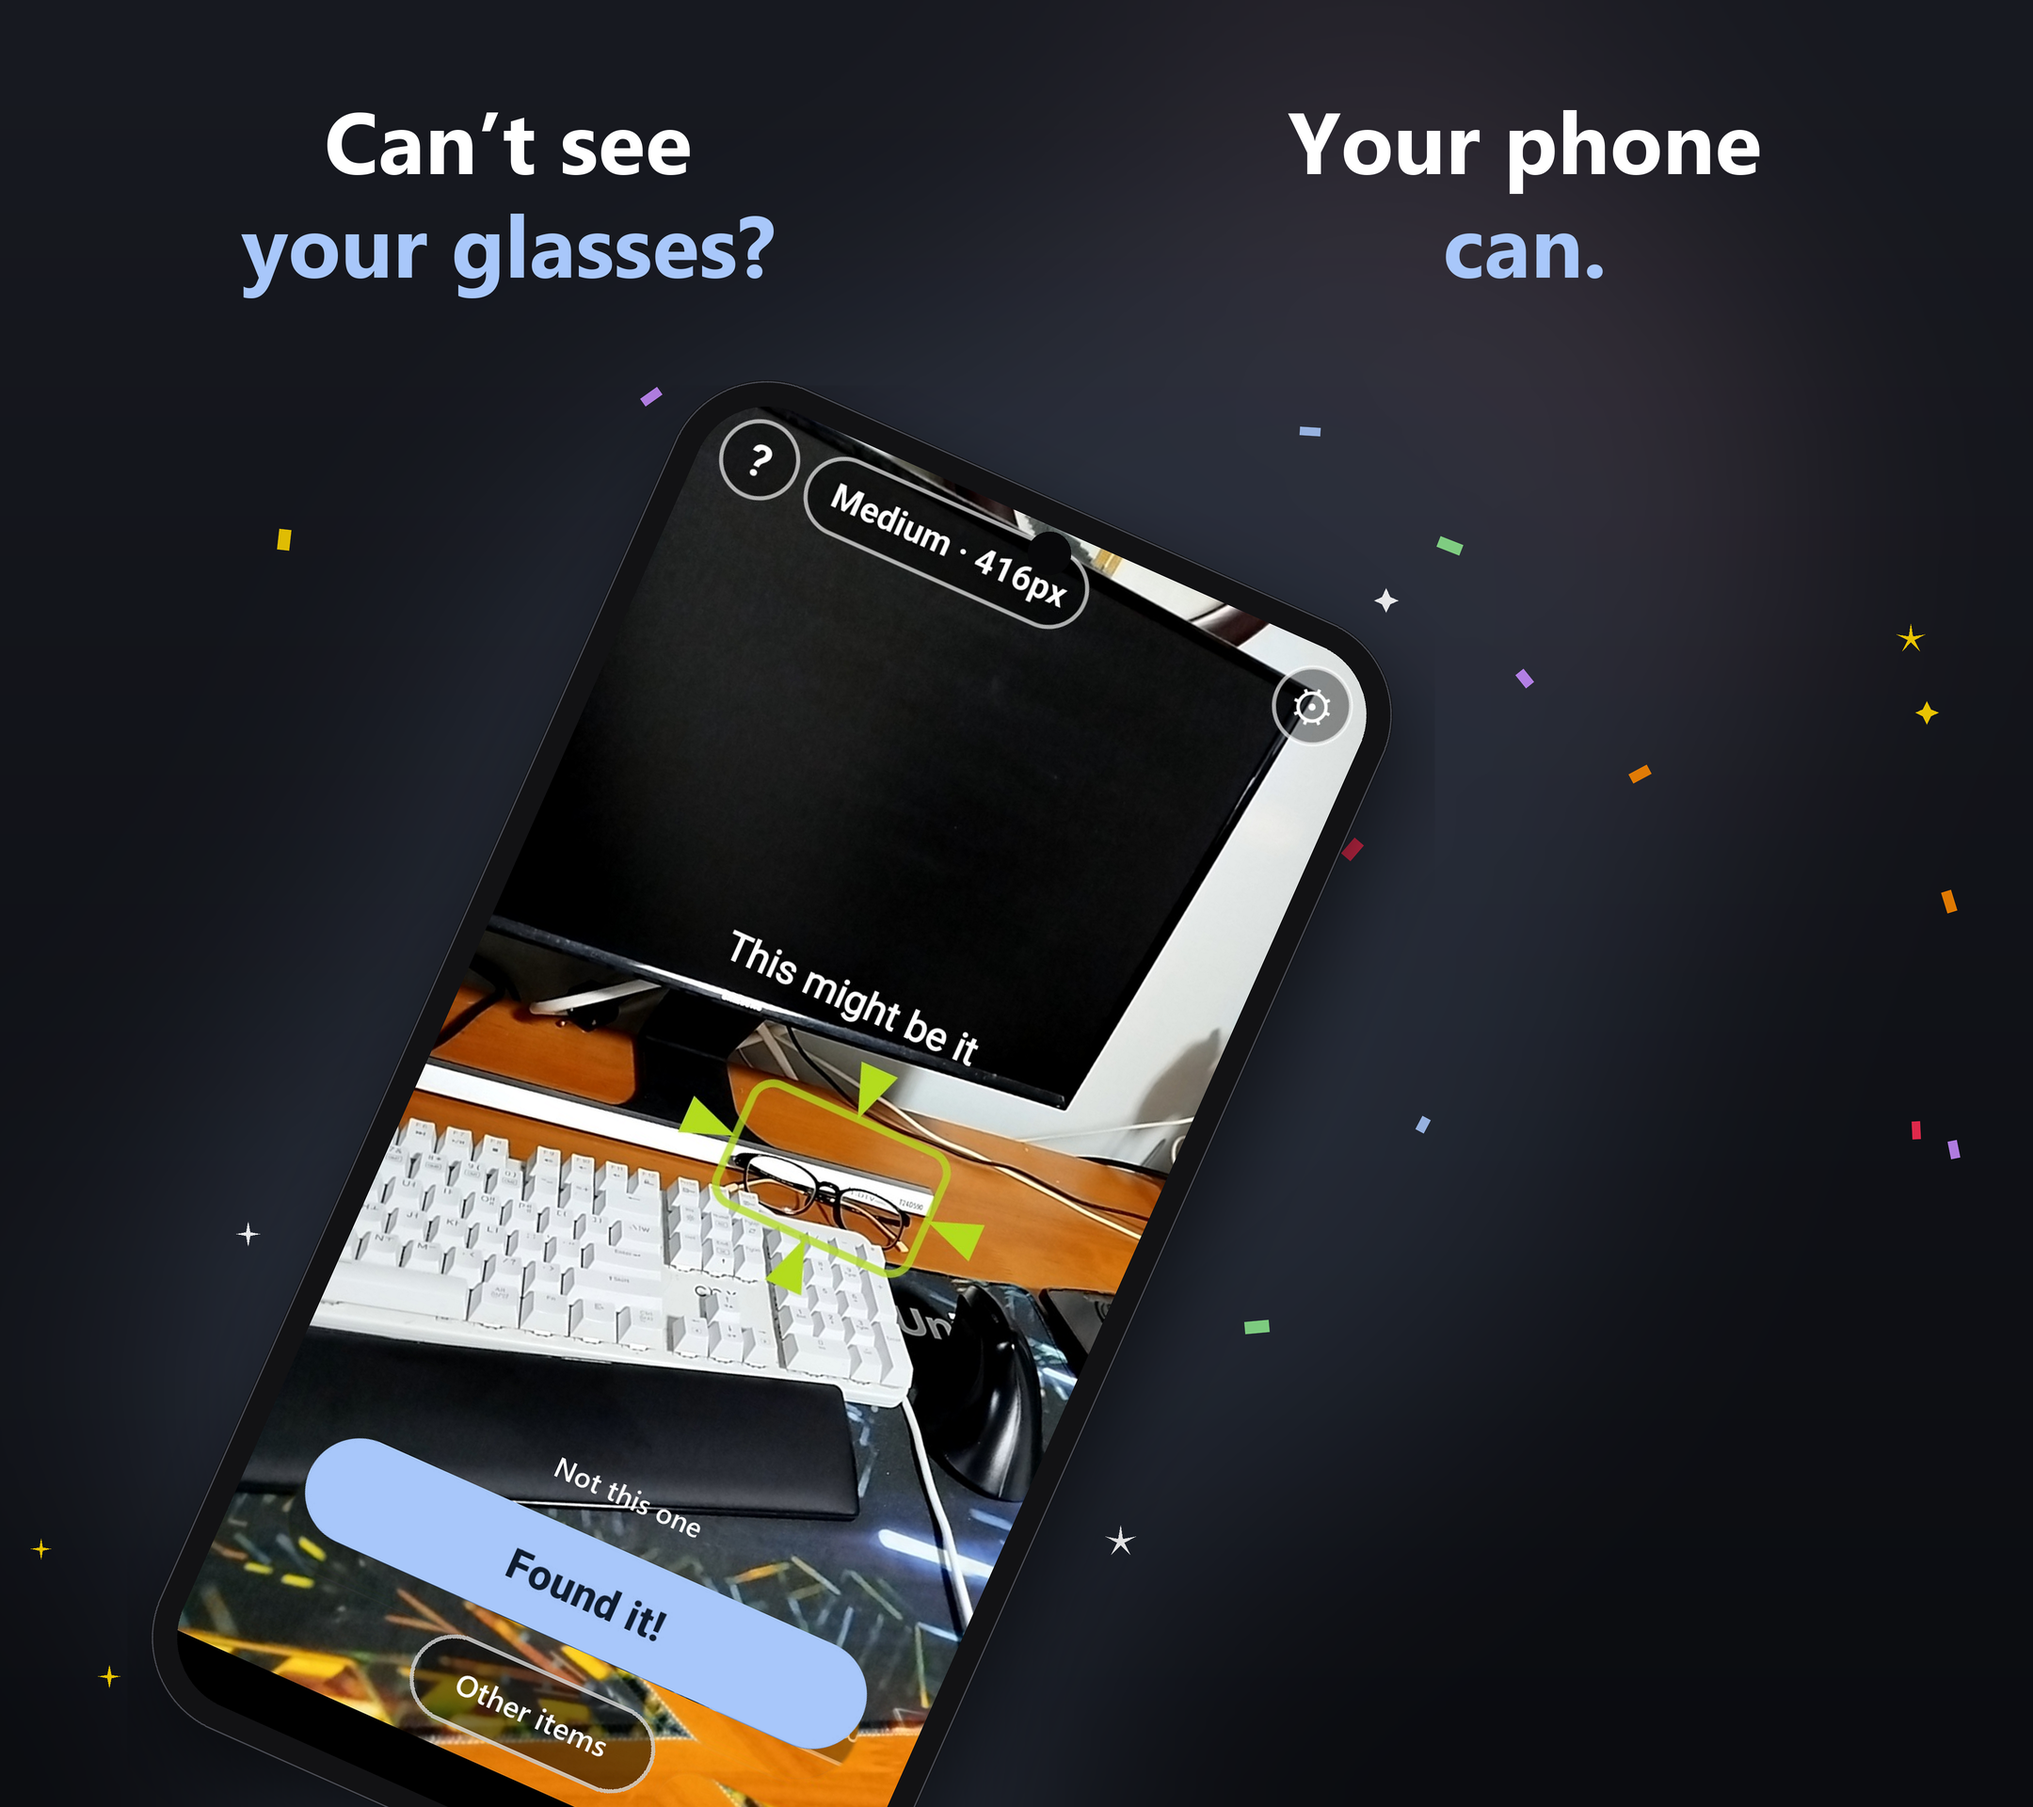
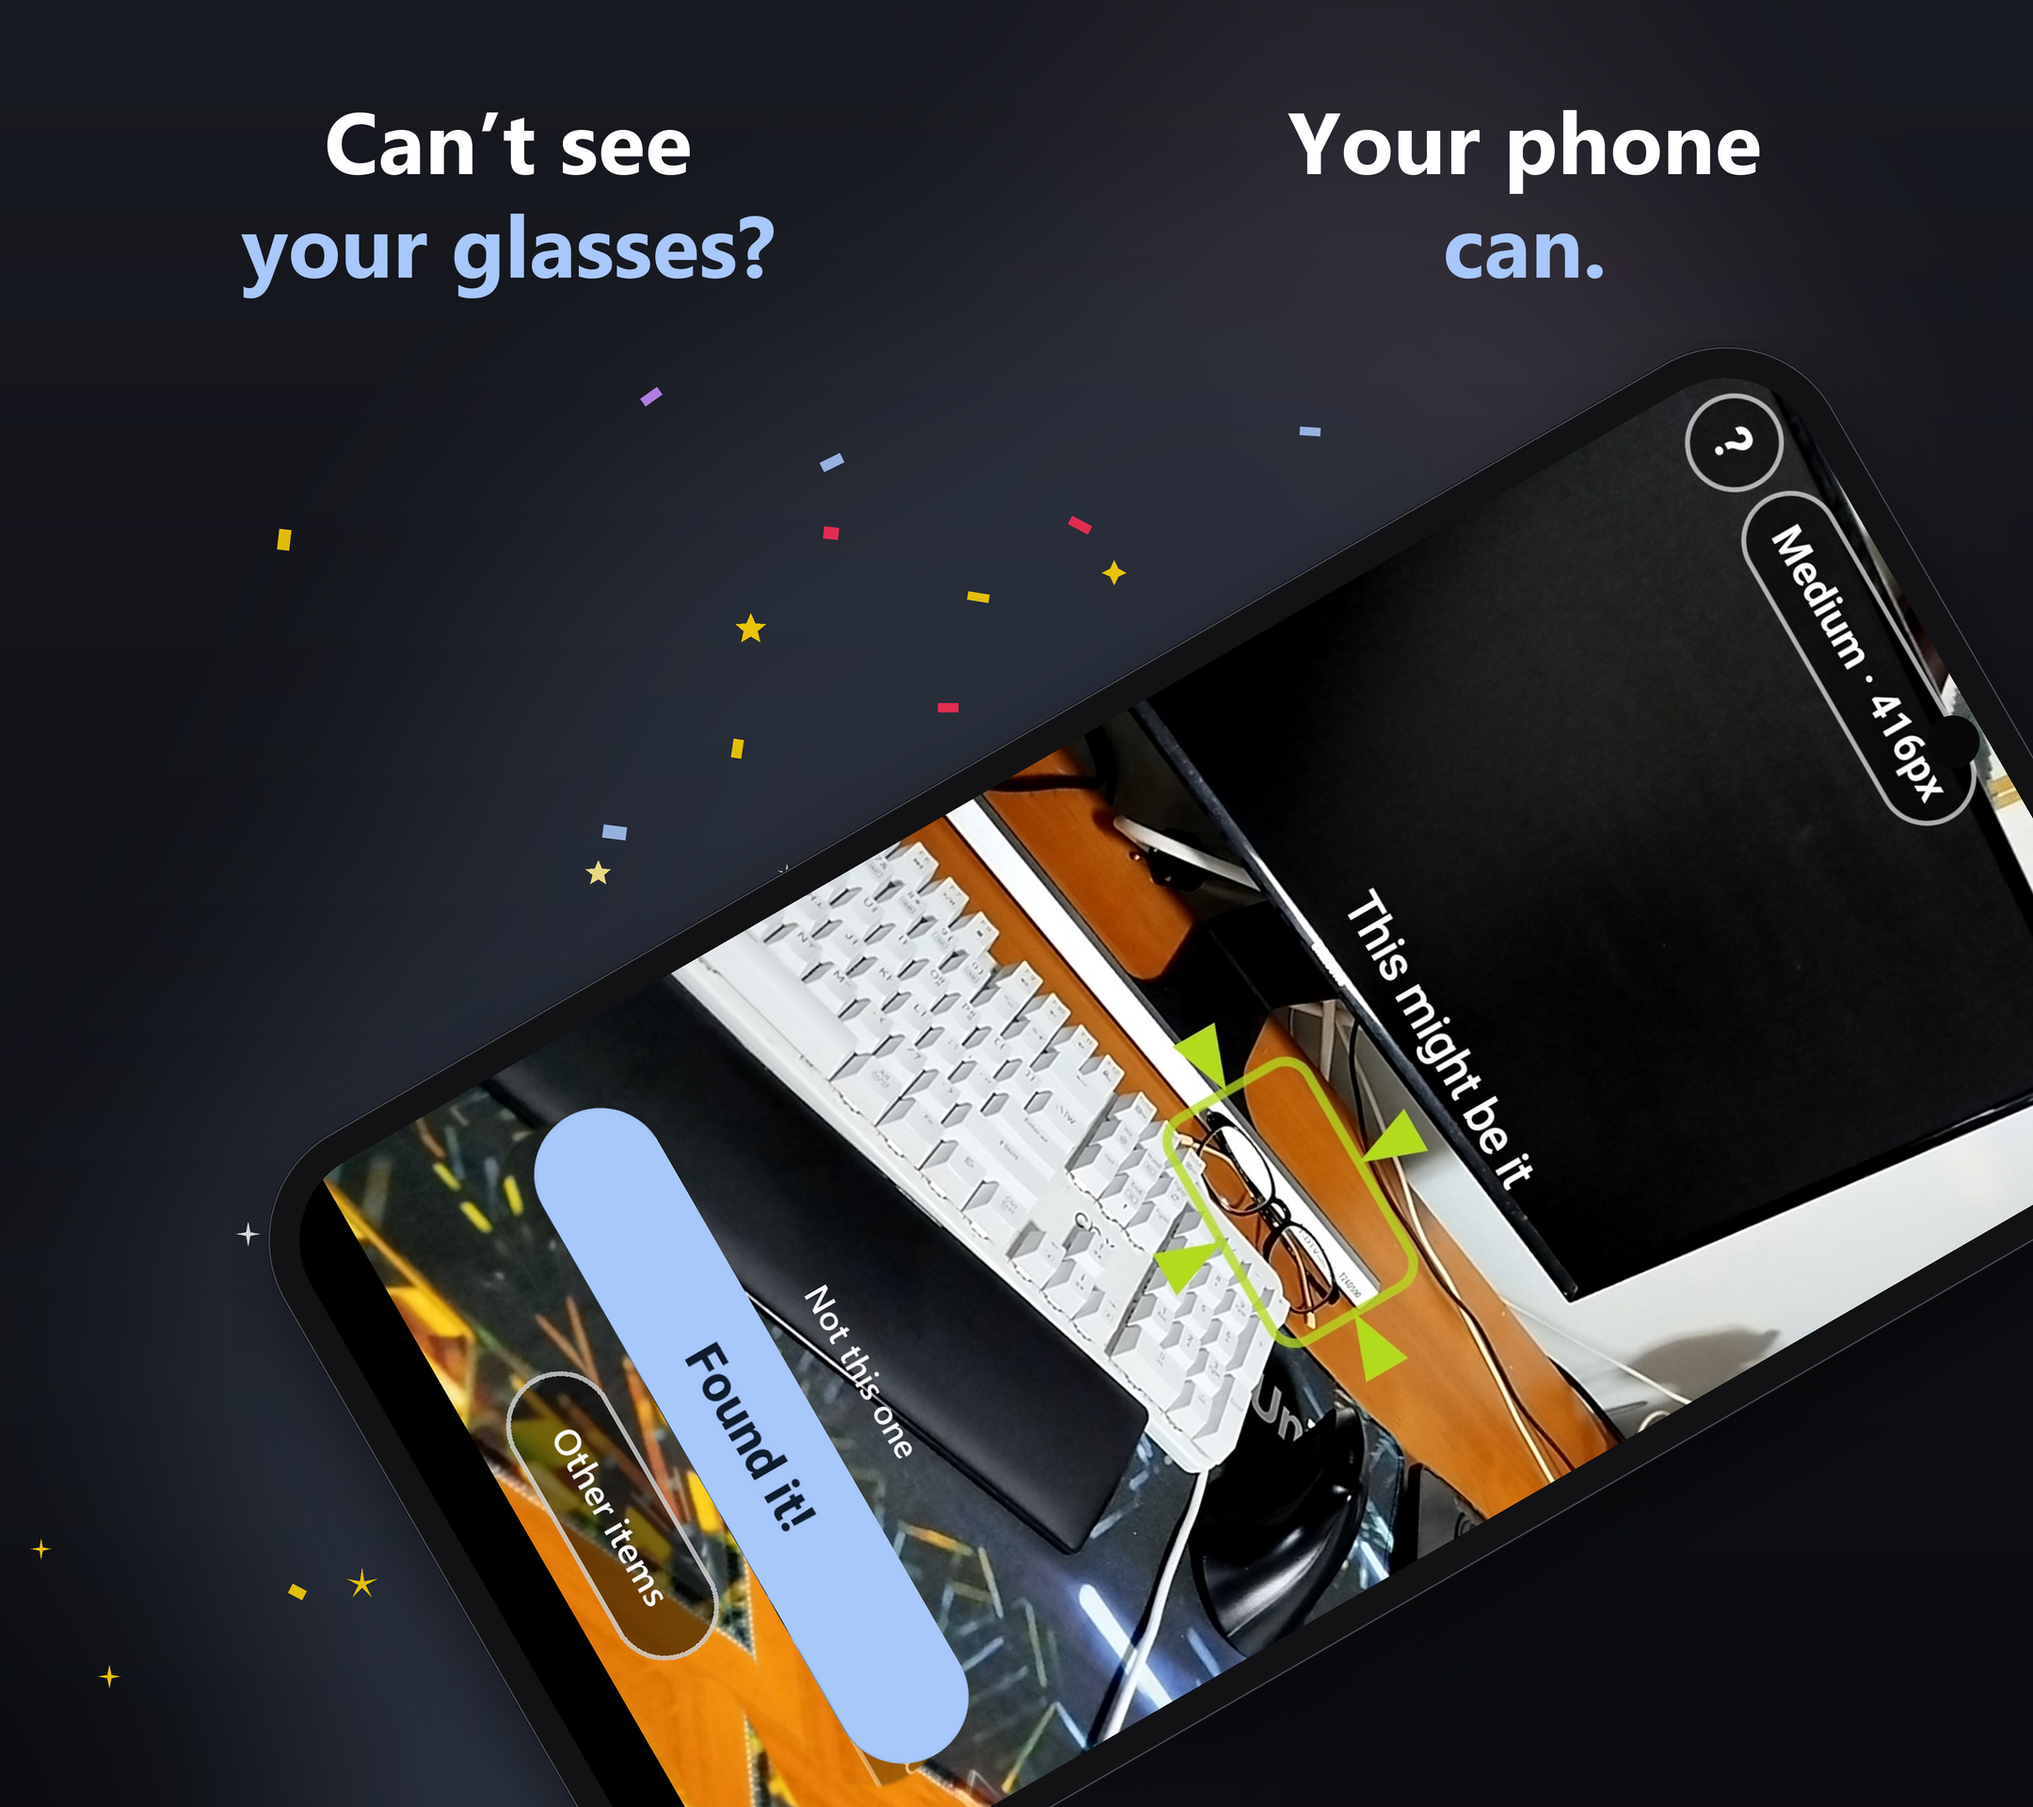
Store panorama: big phone lying across both tiles

diff --git a/poc/scripts/render_store_split.py b/poc/scripts/render_store_split.py
@@ -19,9 +19,9 @@ from render_store_marketing import (
 )
 
 SCREEN = "screenshot-2-search.png"
-PHONE_H = 1560          # 폰 긴 변 (px, 1080 폭 기준)
-ANGLE = -24.0           # 시계 방향으로 기울인다 (위가 오른쪽)
-CENTER = (820, 1250)    # 경계선(1080) 조금 왼쪽 — 안경 박스가 1장 안에 들어온다
+PHONE_H = 1900          # 폰 긴 변 (px, 1080 폭 기준) — 두 장 폭을 거의 다 쓴다
+ANGLE = -60.0           # 크게 눕힌다 (위가 오른쪽 위)
+CENTER = (1310, 1230)   # 경계선이 폰 길이의 약 64% 지점 — 안경 박스는 2장, 버튼 쪽은 1장
 
 LINES = [("Can’t see", "your glasses?"),         # 1장 (둘째 줄 강조색)
          ("Your phone", "can.")]                  # 2장
